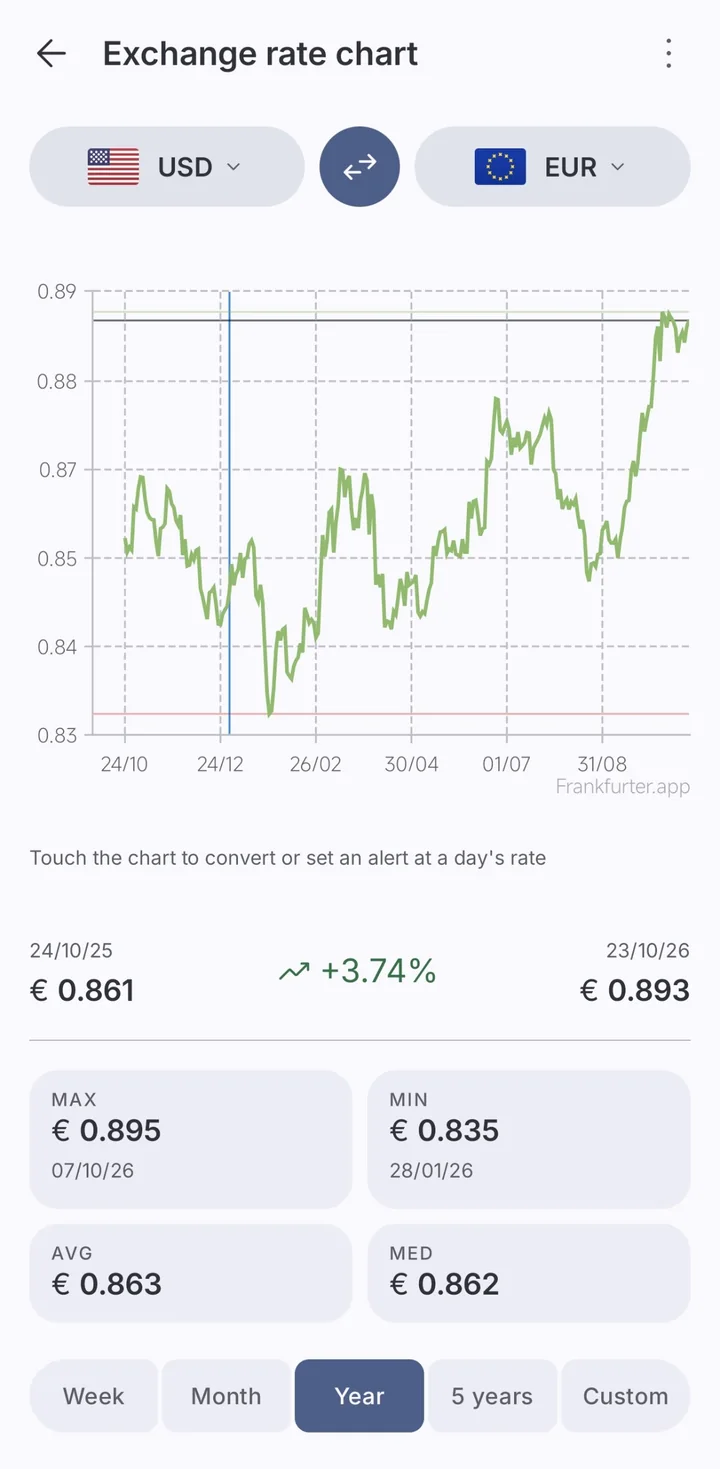
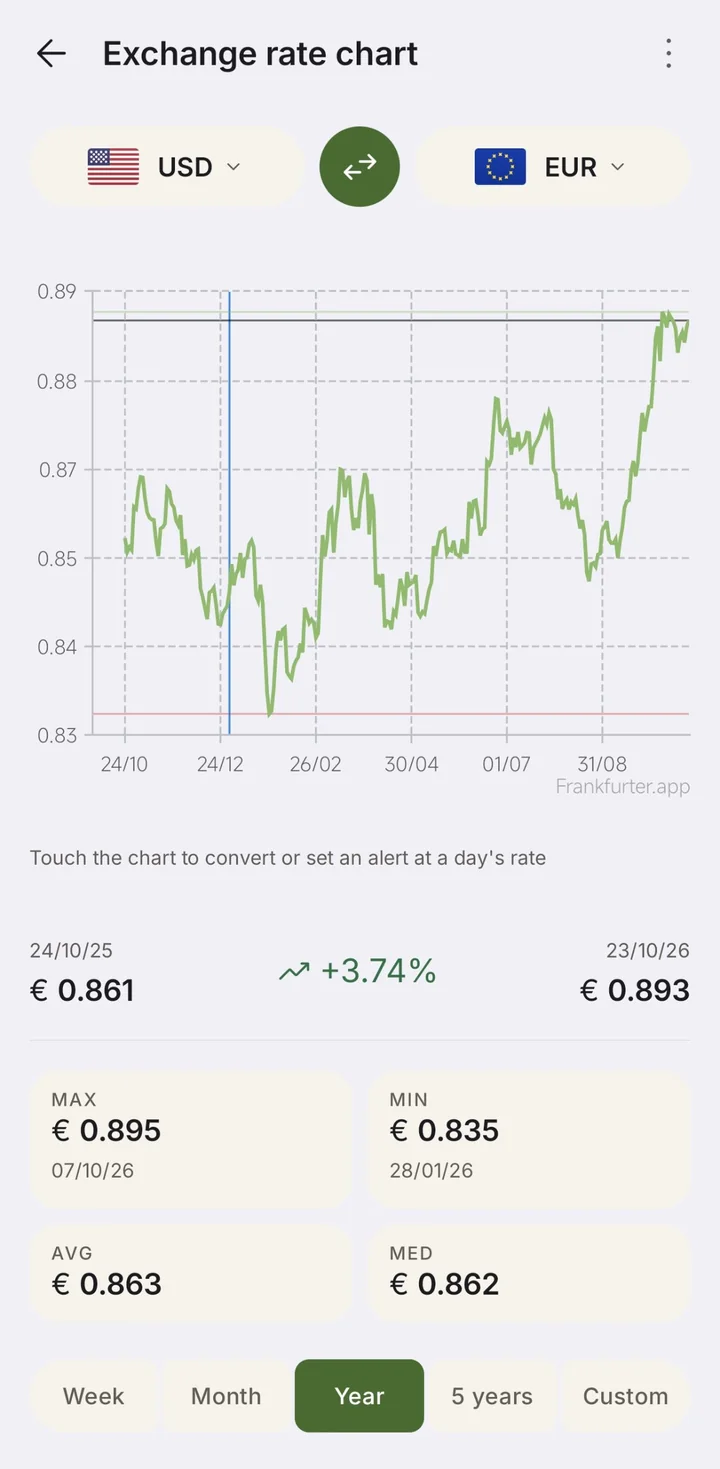
docs(site, readme): screenshots in the app's own colours
The four phone screenshots retaken with Wallpaper colors off, so they
show the paper-and-ink palette the site uses (status bar cropped off).

Claude-Session: https://claude.ai/code/session_01VCSarQ8pqFgGRkwz2RmcFC

diff --git a/docs/index.html b/docs/index.html
@@ -125,7 +125,7 @@
 
 <section class="section wrap" aria-labelledby="screens-title">
   <h2 class="section-title" id="screens-title" data-reveal>On a phone</h2>
-  <p class="section-intro" data-reveal style="--i:1">Taken on an Android phone, with the wallpaper's colours.</p>
+  <p class="section-intro" data-reveal style="--i:1">Taken on an Android phone, in the app's own paper-and-ink colours.</p>
   <div class="shots phones">
     <figure data-reveal style="--i:0"><img src="img/phone-converter.webp" alt="The converter on a phone: 1 US dollar is 0.893 euro, and 0.916 euro with a 2.5% card fee stamped beside it, over the keypad." width="720" height="1469" loading="lazy" decoding="async"><figcaption>The converter, with a 2.5% card fee</figcaption></figure>
     <figure data-reveal style="--i:1"><img src="img/phone-quick-conversions.webp" alt="Quick conversions: 1 to 1,000 dollars in euros, each with the 2.5% fee counted in, based on Frankfurter.app." width="720" height="1469" loading="lazy" decoding="async"><figcaption>Quick conversions, fee included</figcaption></figure>
